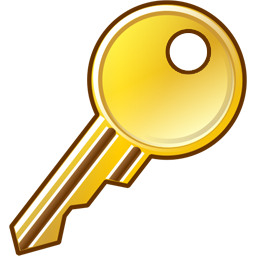
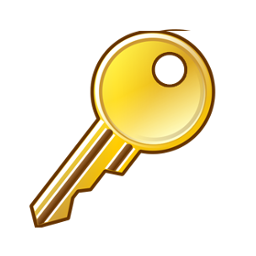
maj icones

Changed region(s): [[0.0312, 0.0, 0.9688, 1.0]]

diff --git a/GuiPG/src/View/GpgItems/primapubkeyitem.cpp b/GuiPG/src/View/GpgItems/primapubkeyitem.cpp
@@ -60,6 +60,12 @@ PrimaPubKeyItem::PrimaPubKeyItem(PrimaPubKey *pub) : PubKeyItem(pub)
         }
         setFont(col, f);
     }
+
+    if (pub->hasPrimaSecKey()) {
+        setIcon(COL_NAME, QIcon(":/icones/res/" ICON_DOUBLE_KEY_PATH));
+    } else {
+        setIcon(COL_NAME, QIcon(":/icones/res/" ICON_SINGLE_KEY_PATH));
+    }
 }
 
 PrimaPubKeyItem::~PrimaPubKeyItem()
@@ -190,4 +196,8 @@ void PrimaPubKeyItem::getPossibleTrustValue() {
     m_gpg->setAction(actionSign);
     connect(m_gpg, &GPGManager::finished, this, &PrimaPubKeyItem::setPossibleTrustValue);
     m_gpg->execute();
+}
+
+PrimaPubKey* PrimaPubKeyItem::getPrimaPubKey() const {
+    return m_pub;
 }

diff --git a/GuiPG/src/View/GpgItems/primapubkeyitem.h b/GuiPG/src/View/GpgItems/primapubkeyitem.h
@@ -4,6 +4,9 @@
 #include "pubkeyitem.h"
 #include "../../Keys/primapubkey.h"
 
+#define ICON_SINGLE_KEY_PATH "/Icones/single_key.png"
+#define ICON_DOUBLE_KEY_PATH "/Icones/double_keys.png"
+
 // X(nom de l'enum, confiance)
 #define X_TRUSTS                        \
 X(EDIT_TRUST_UNDEFINED,     "Sans avis")\
@@ -31,6 +34,7 @@ class PrimaPubKeyItem : public PubKeyItem
         #undef X
 
         static QHash<int, QAction*> trustActions;
+        PrimaPubKey* getPrimaPubKey() const;
 
     public slots:
         void sign();

diff --git a/GuiPG/src/View/GpgItems/uiditem.cpp b/GuiPG/src/View/GpgItems/uiditem.cpp
@@ -15,6 +15,8 @@ UidItem::UidItem(Uid* uid) : GpgItem (uid)
     for (Signature* sig : uid->getSigList()) {
         addChild(new SignatureItem(sig));
     }
+
+    setIcon(COL_NAME, QIcon(":/icones/res/" ICON_UID_PATH));
 }
 
 UidItem::~UidItem()

diff --git a/GuiPG/src/View/GpgItems/uiditem.h b/GuiPG/src/View/GpgItems/uiditem.h
@@ -4,6 +4,8 @@
 #include "gpgitem.h"
 #include "../../Keys/uid.h"
 
+#define ICON_UID_PATH "/Icones/uid.png"
+
 class UidItem : public GpgItem
 {
     public:
